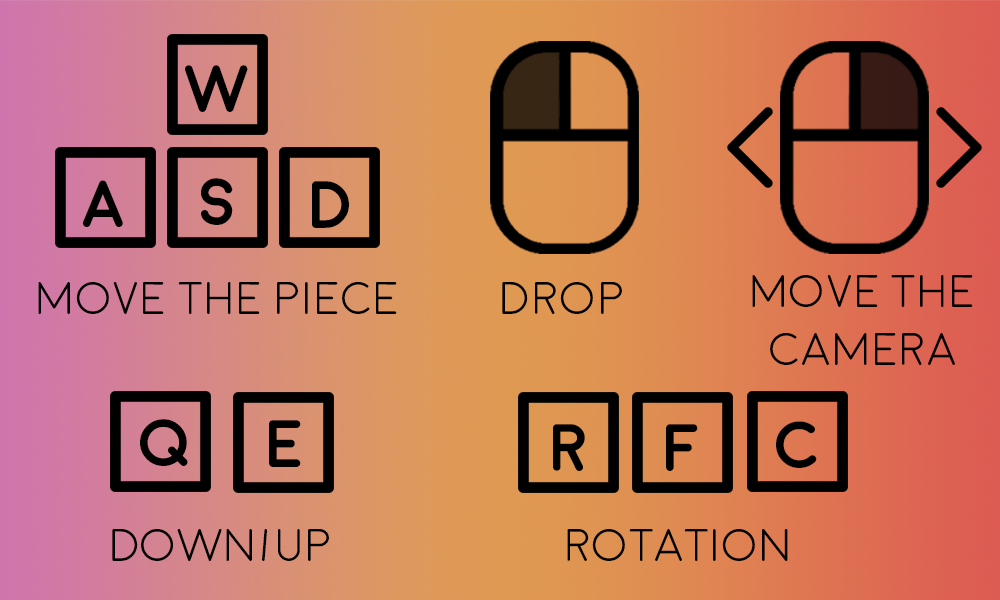
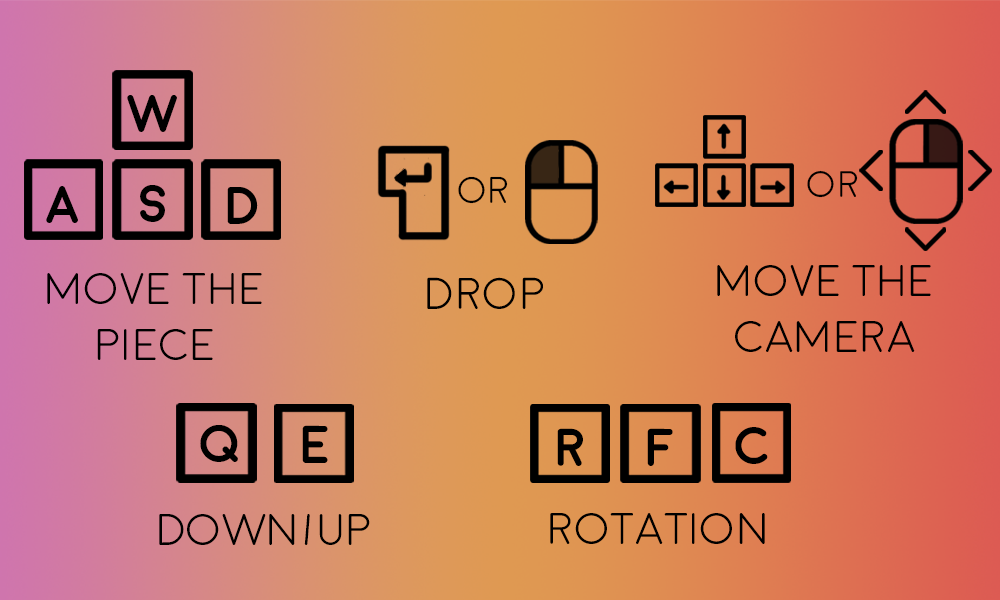
Bigger timer (42s)

diff --git a/Kapla/Assets/Inputs/Controls.cs b/Kapla/Assets/Inputs/Controls.cs
@@ -337,6 +337,17 @@ public class @Controls : IInputActionCollection, IDisposable
                 },
                 {
                     ""name"": """",
+                    ""id"": ""18335941-ddf7-4559-8478-c510455001bd"",
+                    ""path"": ""<Keyboard>/enter"",
+                    ""interactions"": """",
+                    ""processors"": """",
+                    ""groups"": ""Keyboard&Mouse"",
+                    ""action"": ""Drop"",
+                    ""isComposite"": false,
+                    ""isPartOfComposite"": false
+                },
+                {
+                    ""name"": """",
                     ""id"": ""02218a44-7aff-4dbd-b621-bf744d6cede8"",
                     ""path"": ""<Keyboard>/enter"",
                     ""interactions"": ""Press"",
@@ -521,6 +532,61 @@ public class @Controls : IInputActionCollection, IDisposable
                     ""action"": ""Controls"",
                     ""isComposite"": false,
                     ""isPartOfComposite"": false
+                },
+                {
+                    ""name"": ""Arrows"",
+                    ""id"": ""2bb0cd9e-96af-41b0-959a-0f58b9163dd3"",
+                    ""path"": ""2DVector"",
+                    ""interactions"": """",
+                    ""processors"": """",
+                    ""groups"": """",
+                    ""action"": ""CameraMovementPad"",
+                    ""isComposite"": true,
+                    ""isPartOfComposite"": false
+                },
+                {
+                    ""name"": ""up"",
+                    ""id"": ""1257b8b1-3f01-4329-8d0b-ec420193ea70"",
+                    ""path"": ""<Keyboard>/upArrow"",
+                    ""interactions"": """",
+                    ""processors"": """",
+                    ""groups"": ""Keyboard&Mouse"",
+                    ""action"": ""CameraMovementPad"",
+                    ""isComposite"": false,
+                    ""isPartOfComposite"": true
+                },
+                {
+                    ""name"": ""down"",
+                    ""id"": ""54ee9eee-2694-4cbe-9fc4-f13d60a40412"",
+                    ""path"": ""<Keyboard>/downArrow"",
+                    ""interactions"": """",
+                    ""processors"": """",
+                    ""groups"": ""Keyboard&Mouse"",
+                    ""action"": ""CameraMovementPad"",
+                    ""isComposite"": false,
+                    ""isPartOfComposite"": true
+                },
+                {
+                    ""name"": ""left"",
+                    ""id"": ""275a385b-7872-47ea-9796-90bc88357adf"",
+                    ""path"": ""<Keyboard>/leftArrow"",
+                    ""interactions"": """",
+                    ""processors"": """",
+                    ""groups"": ""Keyboard&Mouse"",
+                    ""action"": ""CameraMovementPad"",
+                    ""isComposite"": false,
+                    ""isPartOfComposite"": true
+                },
+                {
+                    ""name"": ""right"",
+                    ""id"": ""56916150-f3af-4602-b797-5d0d30f6e127"",
+                    ""path"": ""<Keyboard>/rightArrow"",
+                    ""interactions"": """",
+                    ""processors"": """",
+                    ""groups"": ""Keyboard&Mouse"",
+                    ""action"": ""CameraMovementPad"",
+                    ""isComposite"": false,
+                    ""isPartOfComposite"": true
                 }
             ]
         },

diff --git a/Kapla/Assets/Scripts/GameManager.cs b/Kapla/Assets/Scripts/GameManager.cs
@@ -132,7 +132,7 @@ public class GameManager : MonoBehaviour
             {
                 timer -= Time.deltaTime;
                 float t = timer / timeBeforeAutoDrop;
-                timerImg.fillAmount = (timer / timeBeforeAutoDrop) - Mathf.Lerp(0.03324204f, 0,t);
+                timerImg.fillAmount = (timer / timeBeforeAutoDrop) - Mathf.Lerp(0.03f, 0,t);
                 if ((int)timer == 0)
                 {
                     movingScript.DropPiece();
